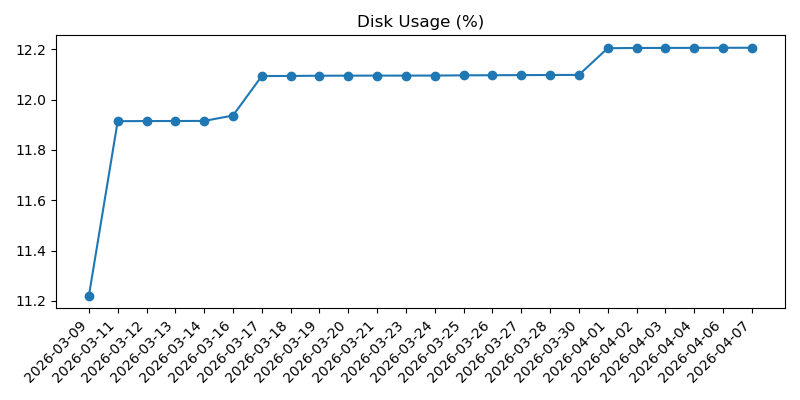
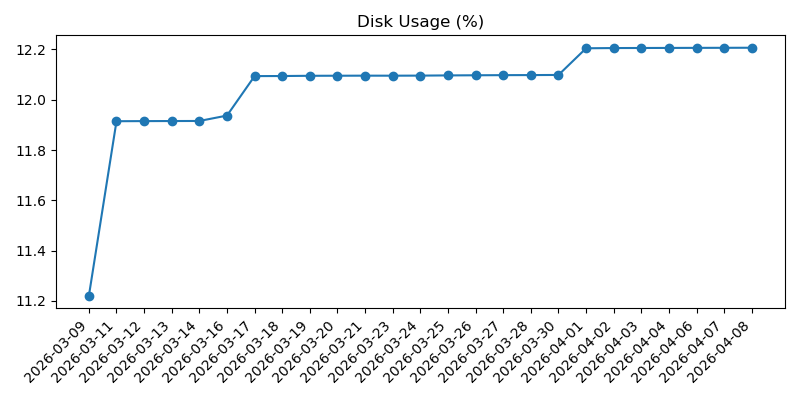
Record daily machine check

diff --git a/2026-04.md b/2026-04.md
@@ -204,3 +204,37 @@
 - Overall: Good
 - Warning: None
 
+## 2026-04-08 10:09:48
+
+### Machine
+- Uptime: up 1 week, 20 hours, 5 minutes
+- CPU load (1m, 5m, 15m): 0.00, 0.00, 0.00
+- RAM used: 170 MB / 921 MB (18.4%)
+- Disk used (/): 3.5 GB / 28.8 GB (12.2%)
+- Free disk space (/): 24.1 GB
+- CPU temp: 36.5°C
+- Voltage / throttling: OK
+
+### Reachability
+- Internet check (1.1.1.1): Reachable (3.2 ms)
+
+### Weather
+- Madrid:
+  - Condition: Muy nuboso con lluvia
+  - Max temp: 21°C
+  - Min temp: 11°C
+  - Feels like: 16°C
+  - Chance of rain: 100%
+  - Warnings: None reported
+- Barcelona:
+  - Condition: Nuboso
+  - Max temp: 20°C
+  - Min temp: 13°C
+  - Feels like: 16°C
+  - Chance of rain: 0%
+  - Warnings: None reported
+
+### Health
+- Overall: Good
+- Warning: None
+
